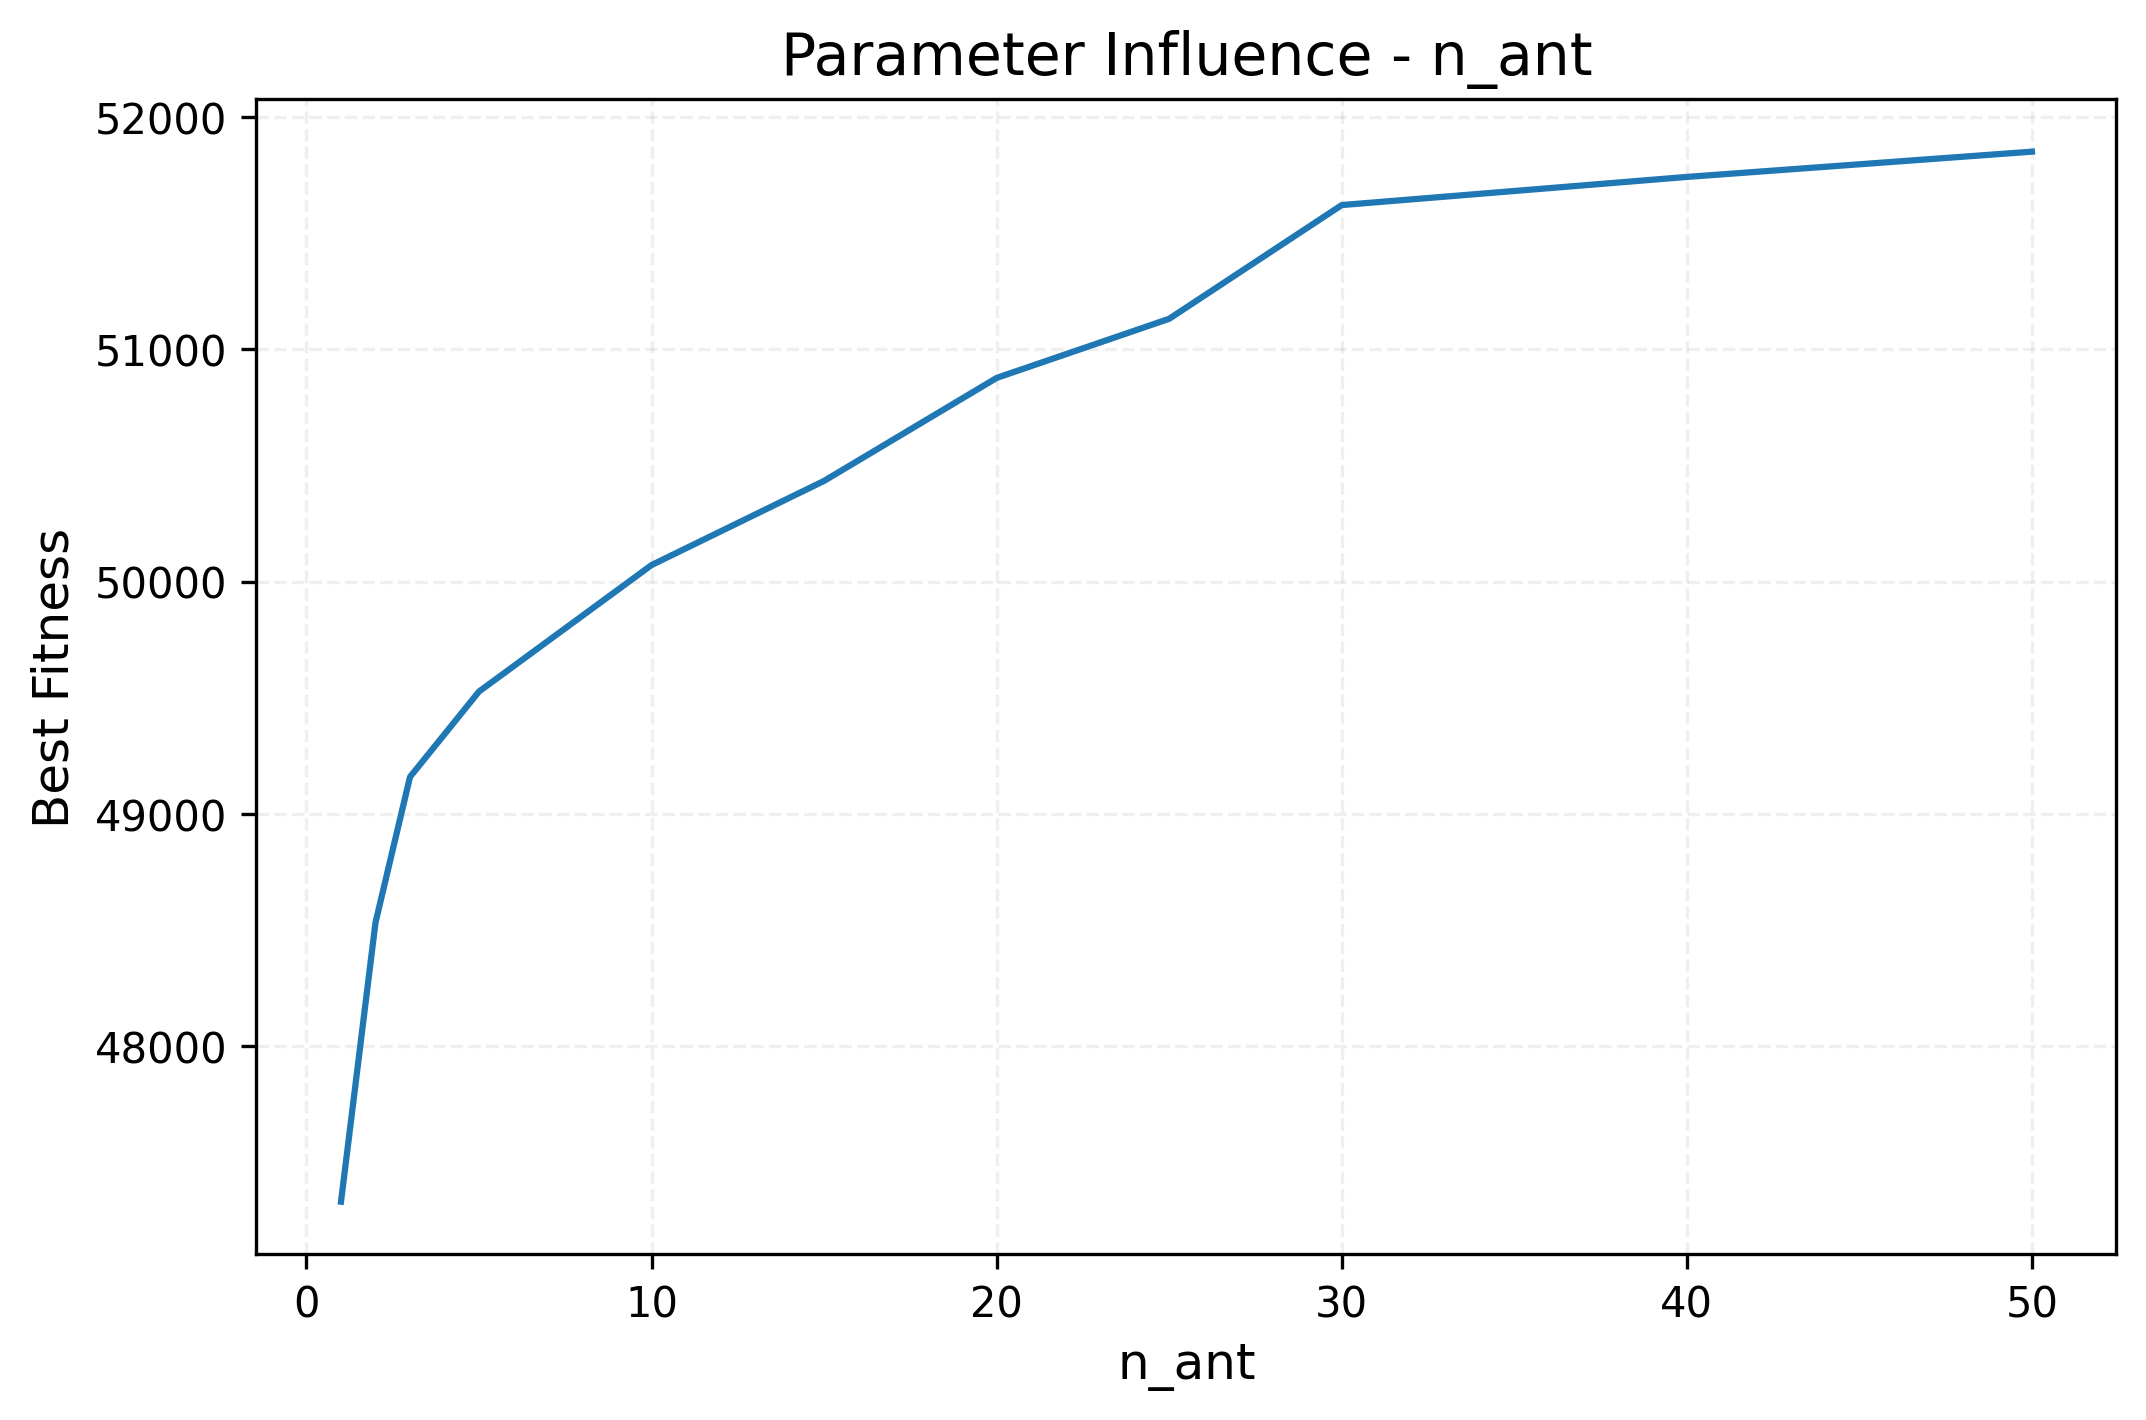
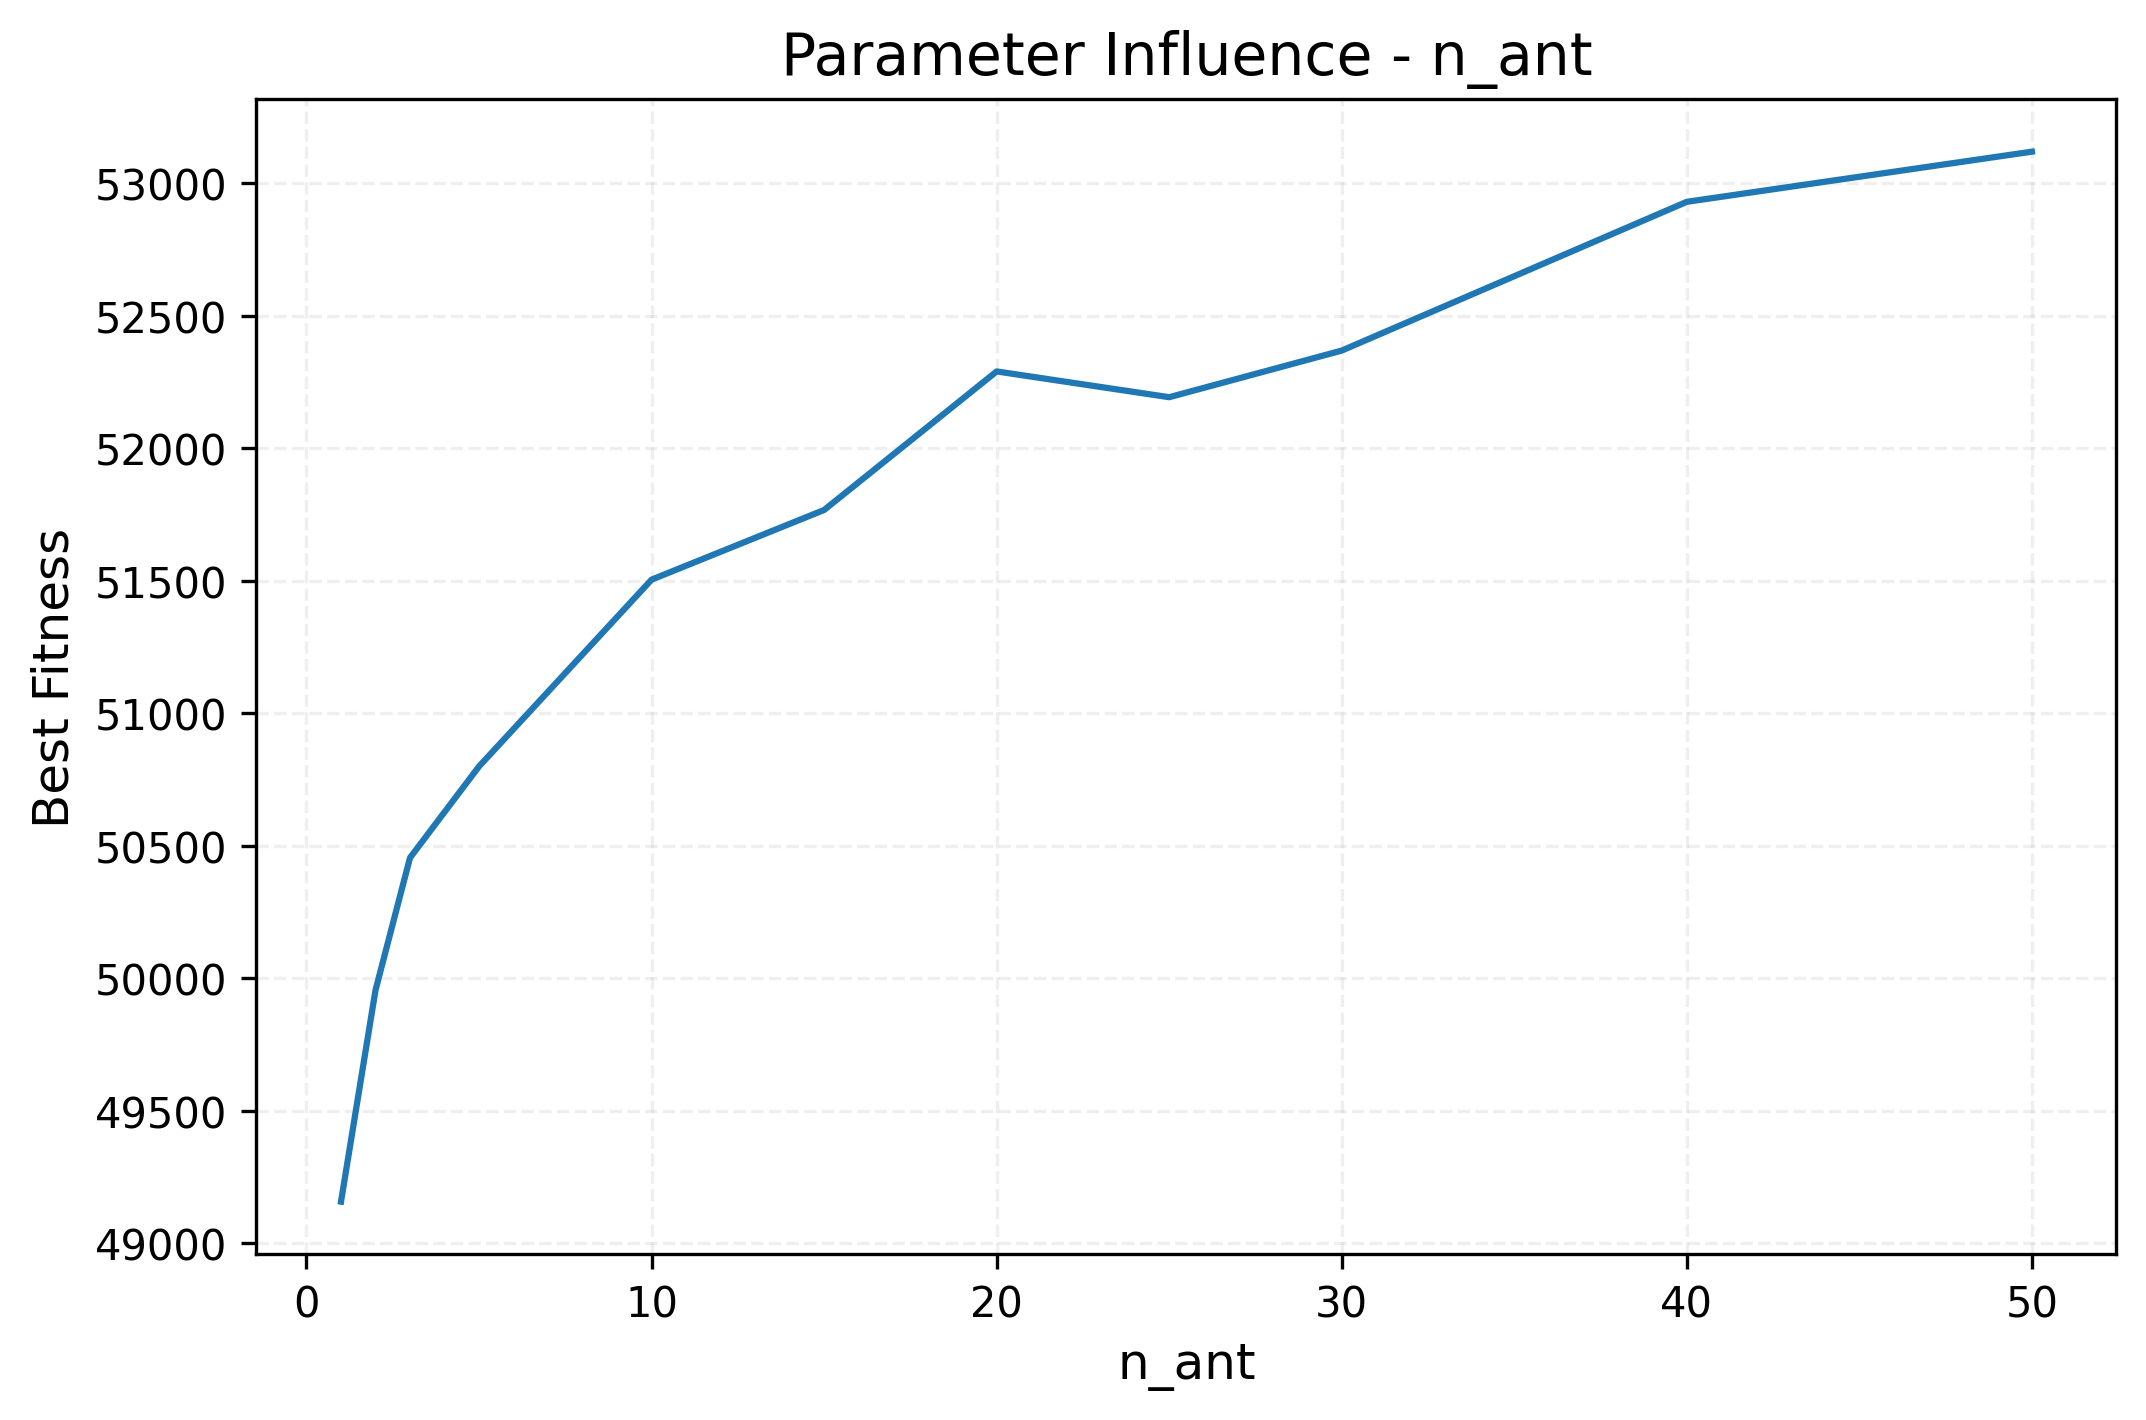
aco update

diff --git a/aco_plots/run_aco_solver.py b/aco_plots/run_aco_solver.py
@@ -1,35 +1,53 @@
+import json
+
+import sys
+sys.path.insert(0, '.')
+
 from solvers import *
 from utils import *
 from mkp_instance import *
 
 aco_params = {
     'max_iter': 1000,
-    'num_ants': 10,
-    'decay': 0.1,
+    'num_ants': 20,
+    'decay': 0.025,
     'alpha': 1.0,
-    'beta': 1.0,
+    'beta': 16.0,
     'n_early_stop': 200
 }
 
-def get_param_grid(base_param: dict, steps: tuple, coordinate: tuple):
-
-    decay_mean = base_param['decay']
-    beta_mean = base_param['beta'] / base_param['alpha']
-
-    offset_params = aco_params.copy()
-    offset_params['decay'] = decay_mean + coordinate[0] * steps[0]
-    offset_params['beta'] = beta_mean + coordinate[1] * steps[1]
-
-    return offset_params
-
 if __name__ == '__main__':
 
-    data_path = './datas/mknap1.txt'
-    instances = read_mkp_file(data_path)
+    res = []
+    for idx in range(1, 10):
 
-    mkp_solver = AntColonyOptimizer(**aco_params)
+        data_name = (f'mknapcb{idx}', 0)
+        data_path = f'./datas/{data_name[0]}.txt'
+        instances = read_mkp_file(data_path)
+        instance = instances[data_name[1]]
 
-    for idx, instance in enumerate(instances):
-        solution, value, stats = mkp_solver.run(instance)
-        print(f'Problem: {idx + 1}\nSolution: {solution}\nValue: {value}\nOptimal: {instance.optimal}')
-        # print(f'Stats: {stats}\n')
+        n_episode = 5
+        best_values = []
+        best_solution_iters = []
+        elapsed_times = []
+        for episode in range(n_episode):
+            mkp_solver = AntColonyOptimizer(**aco_params)
+            solution, value, stats = mkp_solver.run(instance)
+            best_values.append(value)
+            best_solution_iters.append(stats['best_solution_iter'])
+            elapsed_times.append(stats['elapsed_time'])
+
+        avg_value = sum(best_values) / n_episode
+        avg_iter = sum(best_solution_iters) / n_episode
+        avg_elapsed_time = sum(elapsed_times) / n_episode
+
+        res.append({
+            'data_name': data_name[0],
+            'data_idx': data_name[1],
+            'avg_value': avg_value,
+            'avg_iter': avg_iter,
+            'avg_elapsed_time': avg_elapsed_time
+        })
+
+    with open('./aco_plots/aco_results.json', 'w') as f:
+        json.dump(res, f)

diff --git a/solvers/ACO.py b/solvers/ACO.py
@@ -185,5 +185,6 @@ class AntColonyOptimizer(BaseSolver):
         return best_ant.solution, best_ant.fitness, {
             'best_solution_iter': best_solution_iter,
             'pheromones': np.stack(pheromones, axis = 0),
-            'best_fitnesses' : best_fitnesses
+            'best_fitnesses' : best_fitnesses,
+            'elapsed_time': pbar.format_dict["elapsed"]
         }

diff --git a/aco_plots/run_aco_grid_search_decay_ratio.py b/aco_plots/run_aco_grid_search_decay_ratio.py
@@ -68,6 +68,6 @@ if __name__ == '__main__':
             }
 
             with open(
-                f'./grid_search_res/{data_name[0]}_{data_name[1]}_dacay_beta_{decay}_{beta}.json', 'w'
+                f'./grid_search_res/{data_name[0]}_{data_name[1]}_decay_beta_{decay}_{beta}.json', 'w'
             ) as f:
                 json.dump(result, f, indent = 4)
